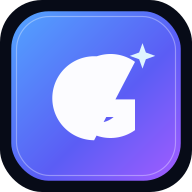
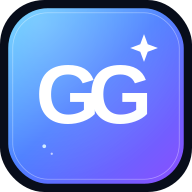
Add files via upload

diff --git a/index.html b/index.html
@@ -348,6 +348,9 @@ body[data-theme="light"] .home-badge{background:#edf5ff;border-color:#cfe0ff;col
   body[data-page="editor"][data-photo-editing="true"] #imageControls { height:36dvh !important; min-height:190px !important; }
 }
 
+
+/* App identity: use the custom GG monogram artwork consistently in the header and launch screen. */
+.logo,.splash-logo{background-image:url("icon.svg")!important;background-size:cover!important;background-position:center!important;color:transparent!important;font-size:0!important;letter-spacing:0!important;padding:0!important}
 </style><meta name="theme-color" content="#050914">
 <link rel="manifest" href="manifest.webmanifest">
 <link rel="apple-touch-icon" href="apple-touch-icon.png">
@@ -540,18 +543,46 @@ function updateHistoryButtons(){$('#undoBtn').disabled=history.length<=1;$('#red
 function newDesign(name,w,h){projectName=name;canvas.width=w;canvas.height=h;$('#canvasW').value=w;$('#canvasH').value=h;layers=[];selected=-1;bg='#08172b';$('#bgColor').value=bg;history=[];redoStack=[];saveHistory();draw();syncProps();$('#editorHeading').textContent=name;go('editor')}
 window.applyIdeaSpark=function(name,description){newDesign(name,1080,1350);layers.push({type:'text',text:String(name||'CREATIVE IDEA').toUpperCase(),x:84,y:150,size:66,color:'#ffffff',font:'Arial',weight:700,align:'left',maxW:900});layers.push({type:'text',text:String(description||'Make something memorable.'),x:86,y:280,size:30,color:'#b7d5ff',font:'Arial',weight:400,align:'left',maxW:880});saveHistory();draw();syncProps()};
 
+// Pixel-based photo rendering: reliable on iPhone Safari even when CanvasRenderingContext2D.filter is unavailable.
+const ggxImageIds=new WeakMap();let ggxNextImageId=1;
+function getProcessedPhoto(l,sx,sy,sw,sh,w,h,p){
+ const values=['brightness','contrast','saturation','warmth','sepia','grayscale','softness','vignette','grain','fade'].map(k=>Number(p[k]??0));
+ const key=[(ggxImageIds.get(l.img)||(ggxImageIds.set(l.img,ggxNextImageId),ggxNextImageId++)),sx,sy,sw,sh,Math.round(w),Math.round(h),...values].join('|');
+ if(l._ggxPhotoCache?.key===key)return l._ggxPhotoCache.canvas;
+ const scale=Math.min(1,1800/Math.max(w,h)),pw=Math.max(1,Math.round(w*scale)),ph=Math.max(1,Math.round(h*scale));
+ const out=document.createElement('canvas');out.width=pw;out.height=ph;const oc=out.getContext('2d',{willReadFrequently:true});
+ oc.drawImage(l.img,sx,sy,sw,sh,0,0,pw,ph);
+ const frame=oc.getImageData(0,0,pw,ph),d=frame.data;
+ const bright=Number(p.brightness??100)/100,contrast=Number(p.contrast??100)/100,sat=Number(p.saturation??100)/100,warm=Number(p.warmth??0),sepia=Math.max(0,Math.min(1,Number(p.sepia??0)/100)),gray=Math.max(0,Math.min(1,Number(p.grayscale??0)/100)),fade=Math.max(0,Math.min(1,Number(p.fade??0)/100));
+ const cf=contrast, cb=128*(1-cf);
+ for(let i=0;i<d.length;i+=4){
+  let r=d[i]*bright,g=d[i+1]*bright,b=d[i+2]*bright;
+  r=r*cf+cb;g=g*cf+cb;b=b*cf+cb;
+  const lum=.2126*r+.7152*g+.0722*b;
+  r=lum+(r-lum)*sat;g=lum+(g-lum)*sat;b=lum+(b-lum)*sat;
+  if(sepia){const sr=.393*r+.769*g+.189*b,sg=.349*r+.686*g+.168*b,sb=.272*r+.534*g+.131*b;r=r*(1-sepia)+sr*sepia;g=g*(1-sepia)+sg*sepia;b=b*(1-sepia)+sb*sepia}
+  if(gray){const y=.2126*r+.7152*g+.0722*b;r=r*(1-gray)+y*gray;g=g*(1-gray)+y*gray;b=b*(1-gray)+y*gray}
+  if(warm){r+=warm*.78;g+=warm*.12;b-=warm*.72}
+  if(fade){r=r*(1-fade*.28)+255*fade*.28;g=g*(1-fade*.28)+255*fade*.28;b=b*(1-fade*.28)+255*fade*.28}
+  d[i]=Math.max(0,Math.min(255,r));d[i+1]=Math.max(0,Math.min(255,g));d[i+2]=Math.max(0,Math.min(255,b));
+ }
+ oc.putImageData(frame,0,0);
+ // A lightweight soft-focus blend works without browser-specific canvas filters.
+ const softness=Math.max(0,Number(p.softness??0));
+ if(softness>0){const blur=document.createElement('canvas');const factor=Math.max(2,Math.round(3+softness*2));blur.width=Math.max(1,Math.round(pw/factor));blur.height=Math.max(1,Math.round(ph/factor));const bc=blur.getContext('2d');bc.imageSmoothingEnabled=true;bc.drawImage(out,0,0,blur.width,blur.height);oc.globalAlpha=Math.min(.55,softness*.17);oc.imageSmoothingEnabled=true;oc.drawImage(blur,0,0,blur.width,blur.height,0,0,pw,ph);oc.globalAlpha=1;}
+ l._ggxPhotoCache={key,canvas:out};return out;
+}
 function draw(){
  ctx.clearRect(0,0,canvas.width,canvas.height);ctx.fillStyle=bg;ctx.fillRect(0,0,canvas.width,canvas.height);
  layers.forEach((l,i)=>{ctx.save();ctx.globalAlpha=l.opacity==null?1:l.opacity;
   if(l.type==='text'){ctx.fillStyle=l.color||'#fff';ctx.font=`${l.weight||700} ${l.size||72}px ${l.font||'Arial'}`;ctx.textBaseline='top';ctx.textAlign=l.align||'left';let mw=l.maxW||canvas.width*.8;let tx=l.align==='center'?l.x+mw/2:l.align==='right'?l.x+mw:l.x;wrapText(ctx,l.text||'',tx,l.y,mw,(l.size||72)*1.2)}
   else if(l.type==='rect'){ctx.fillStyle=l.color||'#1687ff';ctx.fillRect(l.x,l.y,l.w||100,l.h||100)}
-  else if(l.type==='image'&&l.img){let sx=Math.max(0,l.sx||0),sy=Math.max(0,l.sy||0),sw=Math.max(1,Math.min(l.sw||l.img.naturalWidth,l.img.naturalWidth-sx)),sh=Math.max(1,Math.min(l.sh||l.img.naturalHeight,l.img.naturalHeight-sy)),w=l.w||sw,h=l.h||sh;ctx.translate(l.x+w/2,l.y+h/2);ctx.rotate((l.rotation||0)*Math.PI/180);ctx.scale(l.flipX?-1:1,l.flipY?-1:1);const p=l.photo||{};const supportedFilter='filter' in ctx;
-  if(supportedFilter){ctx.filter=`brightness(${p.brightness??100}%) contrast(${p.contrast??100}%) saturate(${p.saturation??100}%) sepia(${p.sepia??0}%) grayscale(${p.grayscale??0}%) blur(${p.softness??0}px)`}
-  ctx.drawImage(l.img,sx,sy,sw,sh,-w/2,-h/2,w,h);
-  if(supportedFilter)ctx.filter='none';
-  if(p.warmth){ctx.globalAlpha=Math.min(.24,Math.abs(p.warmth)/180);ctx.fillStyle=p.warmth>0?'#ff9b45':'#438fff';ctx.fillRect(-w/2,-h/2,w,h);ctx.globalAlpha=l.opacity==null?1:l.opacity}
-  if(p.vignette){const vg=ctx.createRadialGradient(0,0,Math.min(w,h)*.15,0,0,Math.max(w,h)*.72);vg.addColorStop(0,'rgba(0,0,0,0)');vg.addColorStop(1,`rgba(0,0,0,${Math.min(.72,p.vignette/100)})`);ctx.fillStyle=vg;ctx.fillRect(-w/2,-h/2,w,h)}
-  if(p.grain){let seed=17;ctx.globalAlpha=Math.min(.15,p.grain/100);for(let n=0;n<Math.min(700,Math.round(w*h/1500));n++){seed=(seed*9301+49297)%233280;const gx=-w/2+(seed/233280)*w;seed=(seed*9301+49297)%233280;const gy=-h/2+(seed/233280)*h;ctx.fillStyle=seed%2?'#fff':'#000';ctx.fillRect(gx,gy,1.5,1.5)}ctx.globalAlpha=l.opacity==null?1:l.opacity}}
+  else if(l.type==='image'&&l.img){let sx=Math.max(0,l.sx||0),sy=Math.max(0,l.sy||0),sw=Math.max(1,Math.min(l.sw||l.img.naturalWidth,l.img.naturalWidth-sx)),sh=Math.max(1,Math.min(l.sh||l.img.naturalHeight,l.img.naturalHeight-sy)),w=l.w||sw,h=l.h||sh;ctx.translate(l.x+w/2,l.y+h/2);ctx.rotate((l.rotation||0)*Math.PI/180);ctx.scale(l.flipX?-1:1,l.flipY?-1:1);const p=l.photo||{};
+  const edited=['brightness','contrast','saturation','warmth','sepia','grayscale','softness','fade'].some(k=>Number(p[k]??({'brightness':100,'contrast':100,'saturation':100}[k]??0))!==({'brightness':100,'contrast':100,'saturation':100}[k]??0));
+  const image=edited?getProcessedPhoto(l,sx,sy,sw,sh,w,h,p):l.img;
+  if(edited)ctx.drawImage(image,0,0,image.width,image.height,-w/2,-h/2,w,h);else ctx.drawImage(image,sx,sy,sw,sh,-w/2,-h/2,w,h);
+  if(p.vignette){const vg=ctx.createRadialGradient(0,0,Math.min(w,h)*.12,0,0,Math.max(w,h)*.68);vg.addColorStop(0,'rgba(0,0,0,0)');vg.addColorStop(.58,'rgba(0,0,0,0)');vg.addColorStop(1,`rgba(0,0,0,${Math.min(.82,Number(p.vignette)/100)})`);ctx.fillStyle=vg;ctx.fillRect(-w/2,-h/2,w,h)}
+  if(p.grain){let seed=17;ctx.globalAlpha=Math.min(.23,Number(p.grain)/100);for(let n=0;n<Math.min(2200,Math.round(w*h/800));n++){seed=(seed*9301+49297)%233280;const gx=-w/2+(seed/233280)*w;seed=(seed*9301+49297)%233280;const gy=-h/2+(seed/233280)*h;ctx.fillStyle=seed%2?'#fff':'#000';ctx.fillRect(gx,gy,Math.max(.7,w/1000),Math.max(.7,w/1000))}ctx.globalAlpha=l.opacity==null?1:l.opacity}}
   ctx.restore();
  });
  if(document.body.dataset.photoEditing!=='true')drawSelectionUI();
@@ -803,17 +834,17 @@ $('#requestService').onclick=()=>{let name=$('#clientName').value,email=$('#clie
 
 newDesign('Instagram Post',1080,1350);
 // Photo Look engine and multi-image collage workflow.
-const photoBase={brightness:100,contrast:100,saturation:100,warmth:0,sepia:0,softness:0,vignette:0,grain:0,grayscale:0};
+const photoBase={brightness:100,contrast:100,saturation:100,warmth:0,sepia:0,softness:0,vignette:0,grain:0,grayscale:0,fade:0};
 const photoLooks={
- auto:{...photoBase,brightness:106,contrast:108,saturation:108,warmth:2},
+ auto:{...photoBase,brightness:108,contrast:116,saturation:116,warmth:2},
  natural:{...photoBase},
- iphone:{...photoBase,brightness:105,contrast:112,saturation:128},
- cinematic:{...photoBase,brightness:96,contrast:128,saturation:88,warmth:-12,vignette:28},
- film:{...photoBase,brightness:105,contrast:84,saturation:78,sepia:12,grain:18},
- warm:{...photoBase,brightness:106,contrast:108,saturation:115,warmth:22},
- mono:{...photoBase,brightness:103,contrast:120,saturation:0,grayscale:100},
- dream:{...photoBase,brightness:110,contrast:88,saturation:106,softness:1.5},
- night:{...photoBase,brightness:92,contrast:138,saturation:122,vignette:32}
+ iphone:{...photoBase,brightness:106,contrast:122,saturation:152,warmth:2},
+ cinematic:{...photoBase,brightness:94,contrast:148,saturation:82,warmth:-15,vignette:48},
+ film:{...photoBase,brightness:108,contrast:78,saturation:66,warmth:8,sepia:24,grain:30,fade:24,vignette:12},
+ warm:{...photoBase,brightness:107,contrast:116,saturation:126,warmth:24,sepia:8},
+ mono:{...photoBase,brightness:104,contrast:132,saturation:0,grayscale:100,vignette:18},
+ dream:{...photoBase,brightness:112,contrast:86,saturation:116,warmth:8,softness:2},
+ night:{...photoBase,brightness:90,contrast:148,saturation:140,warmth:-8,vignette:52}
 };
 function selectedPhoto(){const l=getSelected();return l&&l.type==='image'?l:null}
 function setCropMode(on){

diff --git a/sw.js b/sw.js
@@ -1,4 +1,4 @@
-const CACHE='graphics-genix-studio-v10-iphone-photo-workspace-fix';
+const CACHE='graphics-genix-studio-v11-pixel-photo-effects';
 const ASSETS=['./','./index.html','./manifest.webmanifest','./icon.svg','./icon-192.png','./icon-512.png','./apple-touch-icon.png'];
 self.addEventListener('install',event=>{event.waitUntil(caches.open(CACHE).then(cache=>cache.addAll(ASSETS)));self.skipWaiting()});
 self.addEventListener('activate',event=>{event.waitUntil(caches.keys().then(keys=>Promise.all(keys.filter(key=>key.startsWith('graphics-genix-studio-')&&key!==CACHE).map(key=>caches.delete(key)))).then(()=>self.clients.claim()))});
